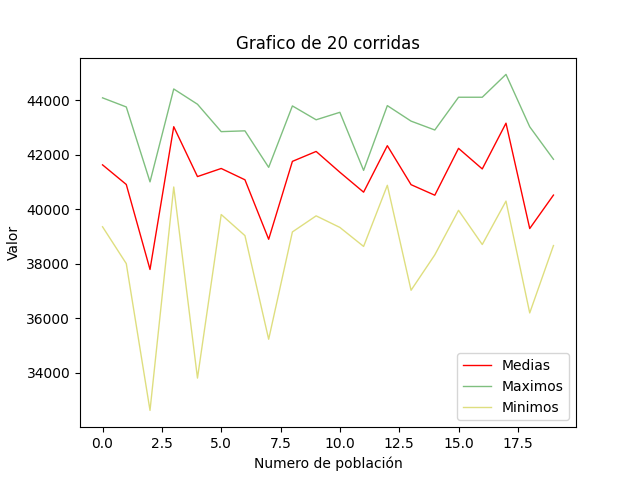
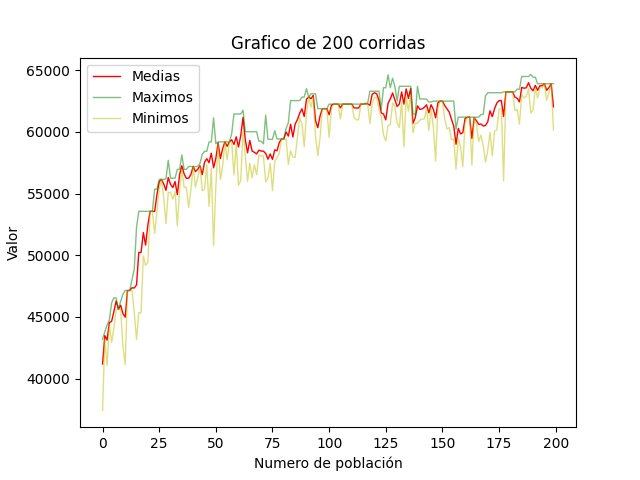
Cambios y visualizacion del AG

diff --git a/Trabajo Practico Integrador/OperadoresGeneticos.py b/Trabajo Practico Integrador/OperadoresGeneticos.py
@@ -8,16 +8,16 @@ class Ruleta():
         ruleta=[0]
         valor=0     
         paresPadres=[]         
-        for cromosoma in poblacionAnterior.arrCromosomas:       
-            valor+=cromosoma.funcFitness
+        for cromosoma in poblacionAnterior.getCromosomas():       
+            valor+=cromosoma.getFuncFitness()
             ruleta.append(valor)
-        for _ in range ((len(poblacionAnterior.arrCromosomas)- cantCromosomasPobla) // 2):
+        for _ in range ((len(poblacionAnterior.getCromosomas())- cantCromosomasPobla) // 2):
                 pares=[]
                 while ( len(pares) < 2 ): #Se debe armar el par, esto garantiza que siempre se forme
                     numAleatorio = rnd.random()     
-                    for j in range(len(poblacionAnterior.arrCromosomas)-1):  
+                    for j in range(len(poblacionAnterior.getCromosomas())-1):  
                         if (numAleatorio >= ruleta[j] and numAleatorio < ruleta[j+1]):
-                            pares.append(poblacionAnterior.arrCromosomas[j])
+                            pares.append(poblacionAnterior._arrCromosomas[j])
                 paresPadres.append(pares)          
         return paresPadres
 
@@ -26,13 +26,13 @@ class Torneo():
     def aplicarSeleccion(self, poblacionAnterior,cantCromosomasPobla):
         t = 2
         paresPadres = []
-        for _ in range ((len(poblacionAnterior.arrCromosomas)- cantCromosomasPobla)//2):
+        for _ in range ((len(poblacionAnterior.getCromosomas())- cantCromosomasPobla) // 2):
             pares = []
             for _ in range(0, t):
                 # Elijo aleatoriamente 2 cromosomas
-                crom1 = rnd.choice(poblacionAnterior.arrCromosomas)
-                crom2 = rnd.choice(poblacionAnterior.arrCromosomas)
-                if crom1 <= crom2: # Elijo el mejor de ambos
+                crom1 = rnd.choice(poblacionAnterior._arrCromosomas)
+                crom2 = rnd.choice(poblacionAnterior._arrCromosomas)
+                if crom1 >= crom2: # Elijo el mejor de ambos
                     pares.append(crom1)
                 else:
                     pares.append(crom2)
@@ -50,8 +50,8 @@ class CrossOverUnPunto():
             padre=par[0] 
             madre=par[1]
             if(rnd.random() <= self.probCrossover):      
-                hijo1=cr.Cromosoma()
-                hijo2=cr.Cromosoma()
+                hijo1=Cromosoma()
+                hijo2=Cromosoma()
                 posicionCorte=rnd.randint(0,Cromosoma.tCromo-1)
                 for fila in range(Cromosoma.tCromo):
                     for col in range(0,posicionCorte):

diff --git a/Trabajo Practico Integrador/Cromosoma.py b/Trabajo Practico Integrador/Cromosoma.py
@@ -92,13 +92,13 @@ class Cromosoma(object):
     def mutoGen(self):
         listaAux=[]
         for fila in self._genes.tolist():
-            print(fila)
+            #print(fila)
             while True:
                 #Se tomaran dos indices de la fila para hacer el intercambio de los genes
                 IndiceGenMutado1 = rnd.randint(0, len(fila)-1)
                 IndiceGenMutado2 = rnd.randint(0, len(fila)-1)   
-                print(f"Indice N°1: {IndiceGenMutado1} - Valor{fila[IndiceGenMutado1]}")
-                print(f"Indice N°2: {IndiceGenMutado2} - Valor{fila[IndiceGenMutado2]}")
+                #print(f"Indice N°1: {IndiceGenMutado1} - Valor{fila[IndiceGenMutado1]}")
+                #print(f"Indice N°2: {IndiceGenMutado2} - Valor{fila[IndiceGenMutado2]}")
                 #Se verifica que los indices sean distintos
                 if IndiceGenMutado1!=IndiceGenMutado2:
                     #Se copia el valor de los indices

diff --git a/Trabajo Practico Integrador/Poblacion.py b/Trabajo Practico Integrador/Poblacion.py
@@ -79,7 +79,7 @@ class Poblacion(object):
         cromosomasNuevos=self.tipoCrossover.aplicoCrossover(paresPadres)  #Por que a los cromosomas del elitismo, no hay que modificarlos 
         self.tipoMutacion.aplicoMutacion(cromosomasNuevos)
         for cromosoma in cromosomasNuevos:
-            self.arrCromosomas.append(cromosoma)
+            self._arrCromosomas.append(cromosoma)
 
     def ATupla(self):    
         return [self._ID,self._minCromosoma.getFuncObjetivo(),self._maxCromosoma.getFuncObjetivo(),self._mediaPoblacionFO]
@@ -92,6 +92,9 @@ class Poblacion(object):
     
     def getMaxCromosoma(self):
         return self._maxCromosoma
+
+    def getCromosomas(self):
+        return self._arrCromosomas
 
     def diseñoParques(self):
         print("---------------------------------------------")

diff --git a/Trabajo Practico Integrador/Generacion.py b/Trabajo Practico Integrador/Generacion.py
@@ -18,14 +18,10 @@ class Generacion(object):
     def creoPoblacion(self):
         #TESTEO PARA VER SI CREA LAS DEMAS   
         poblacion=Poblacion()
-        poblacion.instacioParques()
-        """
-        if(self.arrPoblaciones == [] ): 
+        if(self._arrPoblaciones == [] ): 
             poblacion.instacioParques()       
         else:              
-            #poblacion.creoNuevoParqueEolico(self.arrPoblaciones[-1]) 
-            poblacion.instacioParques() 
-        """
+            poblacion.creoNuevaPoblacion(self._arrPoblaciones[-1]) 
         poblacion.calculoDatosPoblacion()                   
         self._arrPoblaciones.append(poblacion)    
 

diff --git a/Trabajo Practico Integrador/Testeo.py b/Trabajo Practico Integrador/Testeo.py
@@ -114,8 +114,8 @@ hijo2.calculoFuncObjetivo()
 
 #EL UNICO PROBLEMA QUE QUEDA ACA ES QUE CUANDO SE APLICA, QUEDAN EN LA MAYORIA
 #SUPERANDO LOS 25 MOLINOS POR PARQUE
-#hijo1.getAeroParques()
-#hijo2.getAeroParques()
+#hijo1.getAerogeneradores()
+#hijo2.getAerogeneradores()
 
 #-------Crossover-----
 

diff --git a/Trabajo Practico Integrador/main.py b/Trabajo Practico Integrador/main.py
@@ -4,7 +4,7 @@ from Cromosoma import *
 from OperadoresGeneticos import *
 import openpyxl as opyxl
 
-CantPoblaciones=[20,200]   
+CantPoblaciones=[200]   
 generaciones=[]
 #Parametros del Parque 
 Cromosoma.tCromo=10  #Sera una matriz de 10x10
